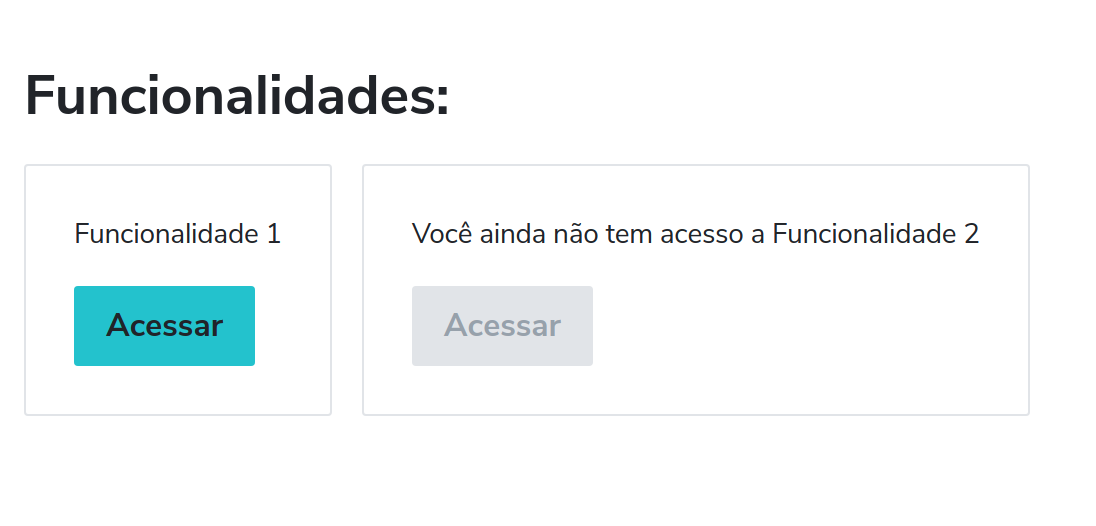
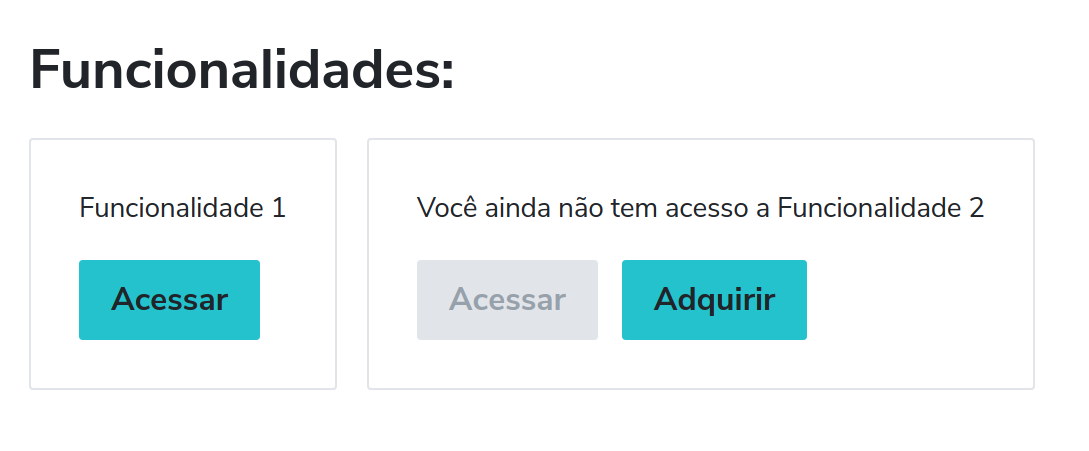
Update Posts “2021-07-15-react-custom-hooks-e-coumpond-components-abstraindo-as-regras-da-sua-aplicacao”

diff --git a/posts/2021-07-15-react-custom-hooks-e-coumpond-components-abstraindo-as-regras-da-sua-aplicacao.md b/posts/2021-07-15-react-custom-hooks-e-coumpond-components-abstraindo-as-regras-da-sua-aplicacao.md
@@ -100,7 +100,7 @@ Eu sei que esse é um exemplo simples, mas acho que é suficiente para introduzi
 
 ## Um cenário real
 
-O nosso caso é: o plano da conta do nosso usuário tem acesso a uma lista de funcionalidades. Por conta disso, só podemos exibir a funcionalidade X para ele se ela existir nessa lista. Caso não tenha, ela deve aparecer desabilitada e com uma mensagem informando que não tem acesso. É quase a mesma ideia de [feature flag/toggles](https://martinfowler.com/articles/feature-toggles.html).
+O nosso caso é: o plano da conta do nosso usuário tem acesso a uma lista de funcionalidades. Por conta disso, só podemos exibir a funcionalidade X para ele se ela existir nessa lista. Caso não tenha, ela deve aparecer com o botão de acesso desabilitado, uma mensagem informando que não tem acesso e um [CTA](https://resultadosdigitais.com.br/blog/tudo-sobre-call-to-action/) para adquirir. É a mesma ideia de [feature flag/toggles](https://martinfowler.com/articles/feature-toggles.html).
 
 Uma solução para isso é: 
 
@@ -161,8 +161,6 @@ E para o cenário onde a feature não está disponível na lista, nós temos o s
 
 ![Um titulo "Funcionalidades" e abaixo dois cards um respectivos titulos "Funcionalidade 1" e "Você ainda não tem acesso a Funcionalidade 2", ambos com botões para acessar, porém o segundo está desabilitado.](/assets/img/without-access.png "Resultado final do código acima na condição falsa.")
 
-Bom, funcionou como deveria certo?!
-
-Falar sobre DRY
+Bom, funcionou como deveria, certo?! Agora, imagine que essa validação acontece em diferentes locais da aplicação, por exemplo, na barra de navegação, dentro de um modal, numa outra listagem qualquer, você teria que repetir essa mesma lógica por todo o produto e isso seria um caos indo contra ao conceito [DRY (Don't Repeat Yourself)](https://pt.wikipedia.org/wiki/Don%27t_repeat_yourself).
 
 Mostrar uma solução mais escalável
